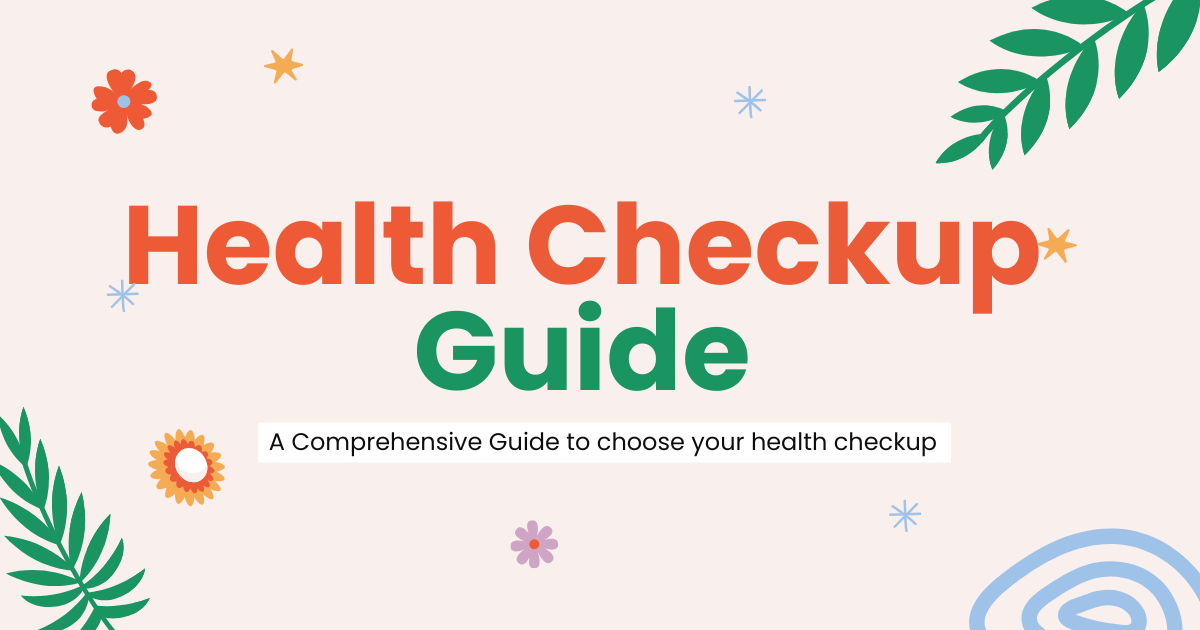
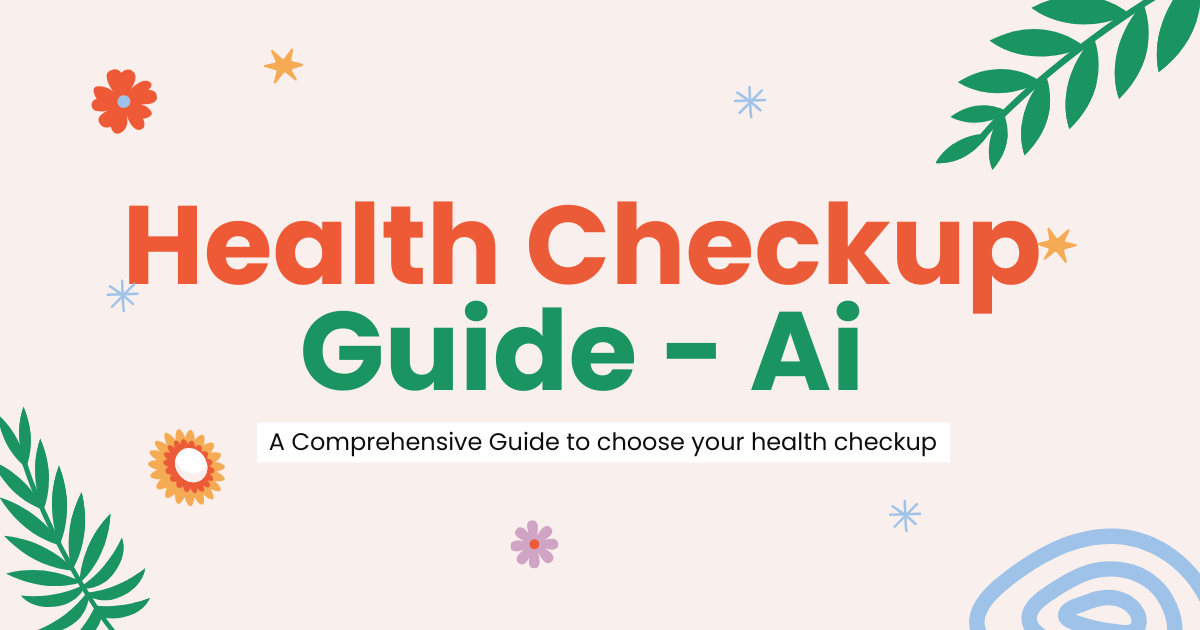
Updated Description, OG Image

Changed region(s): [[0.2467, 0.4825, 0.74, 0.6333]]

diff --git a/index.html b/index.html
@@ -5,7 +5,7 @@
     <link rel="icon" href="favicon.ico">
     <meta
       property="og:title"
-      content="Annual Health Checkup Guide — Adults 24+"
+      content="AI Health Checkup Guide"
     />
     <meta
       property="og:description"
@@ -377,34 +377,7 @@
     cursor: pointer;
   }
   .print-btn:hover { background: var(--bg-secondary); }
- 
- 
- 
- 
- 
- 
- 
- 
- 
- 
- 
- 
- 
- 
- 
- 
- 
- 
- 
- 
- 
- 
- 
- 
- 
- 
- 
- 
+
  
   /* ── AI SEARCH ── */
   .ai-search-box {
@@ -541,8 +514,8 @@
 <body>
  
 <header>
-  <h1>Annual Health Checkup Guide</h1>
-  <p>Evidence-based reference for adults in India · Age-wise recommendations from 24+ · Updated 2025</p>
+  <h1>Health Checkup Guide AI</h1>
+  <p>Evidence-based reference for adults in India · Age-wise recommendations from 24+ · Updated 2026 · Ai</p>
 </header>
  
 <div class="container">
@@ -1354,7 +1327,7 @@ async function runAiSearch() {
  
         section.innerHTML = `
           <div class="ai-suggested-label">
-            ${genuinelyNew.length} additional test${genuinelyNew.length > 1 ? 's' : ''} suggested by AI — not in our database
+            ${genuinelyNew.length} additional test${genuinelyNew.length > 1 ? 's' : ''} suggested by AI
           </div>
           <div class="card-grid" style="margin-top:0;">
             ${genuinelyNew.map(t => `
